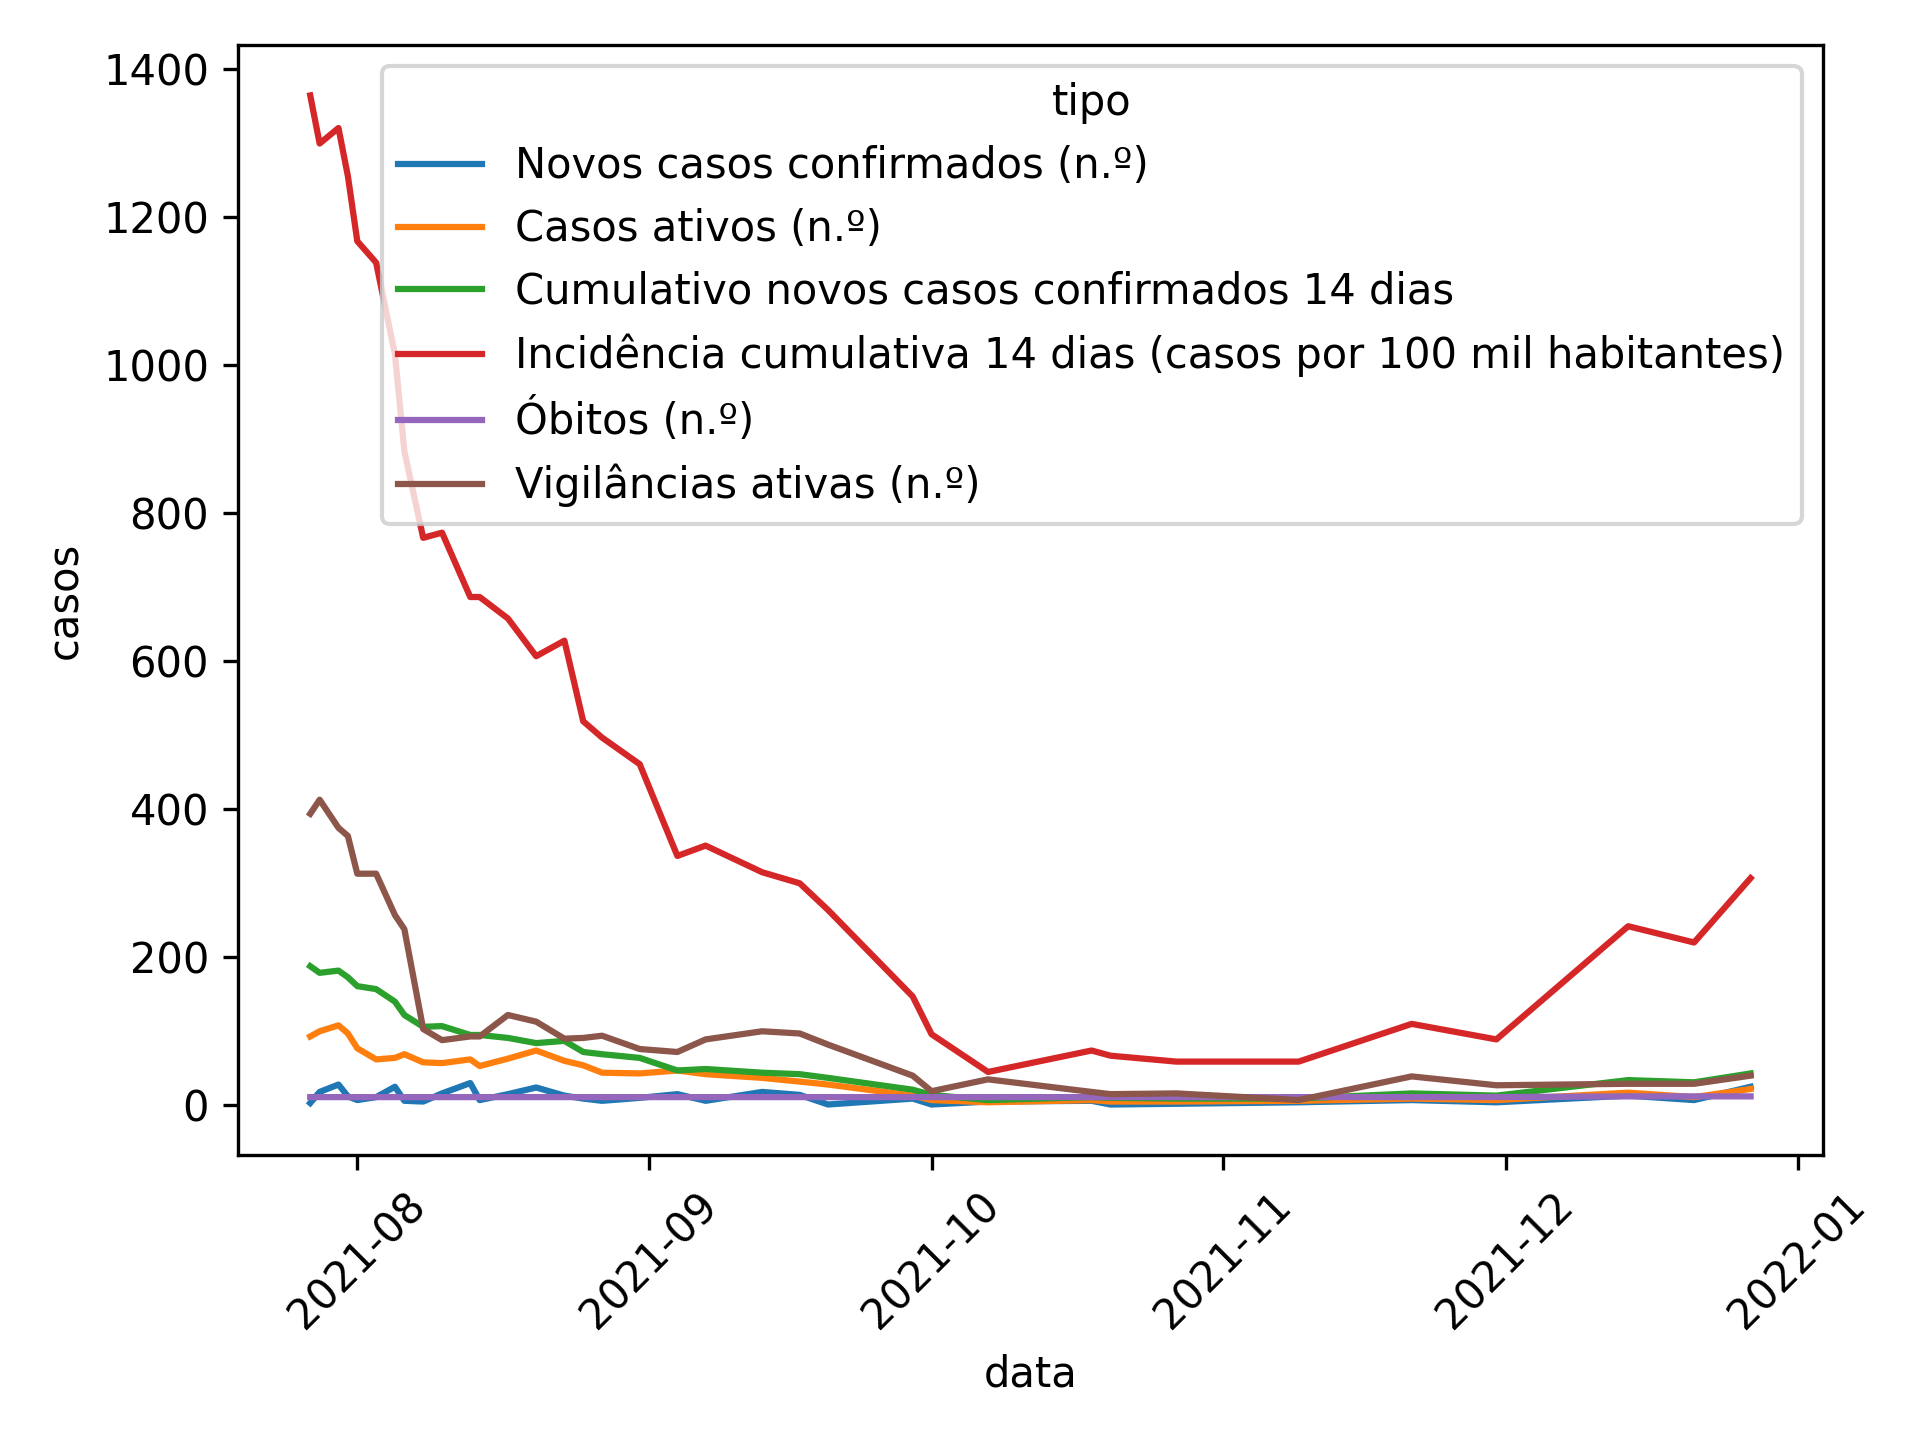
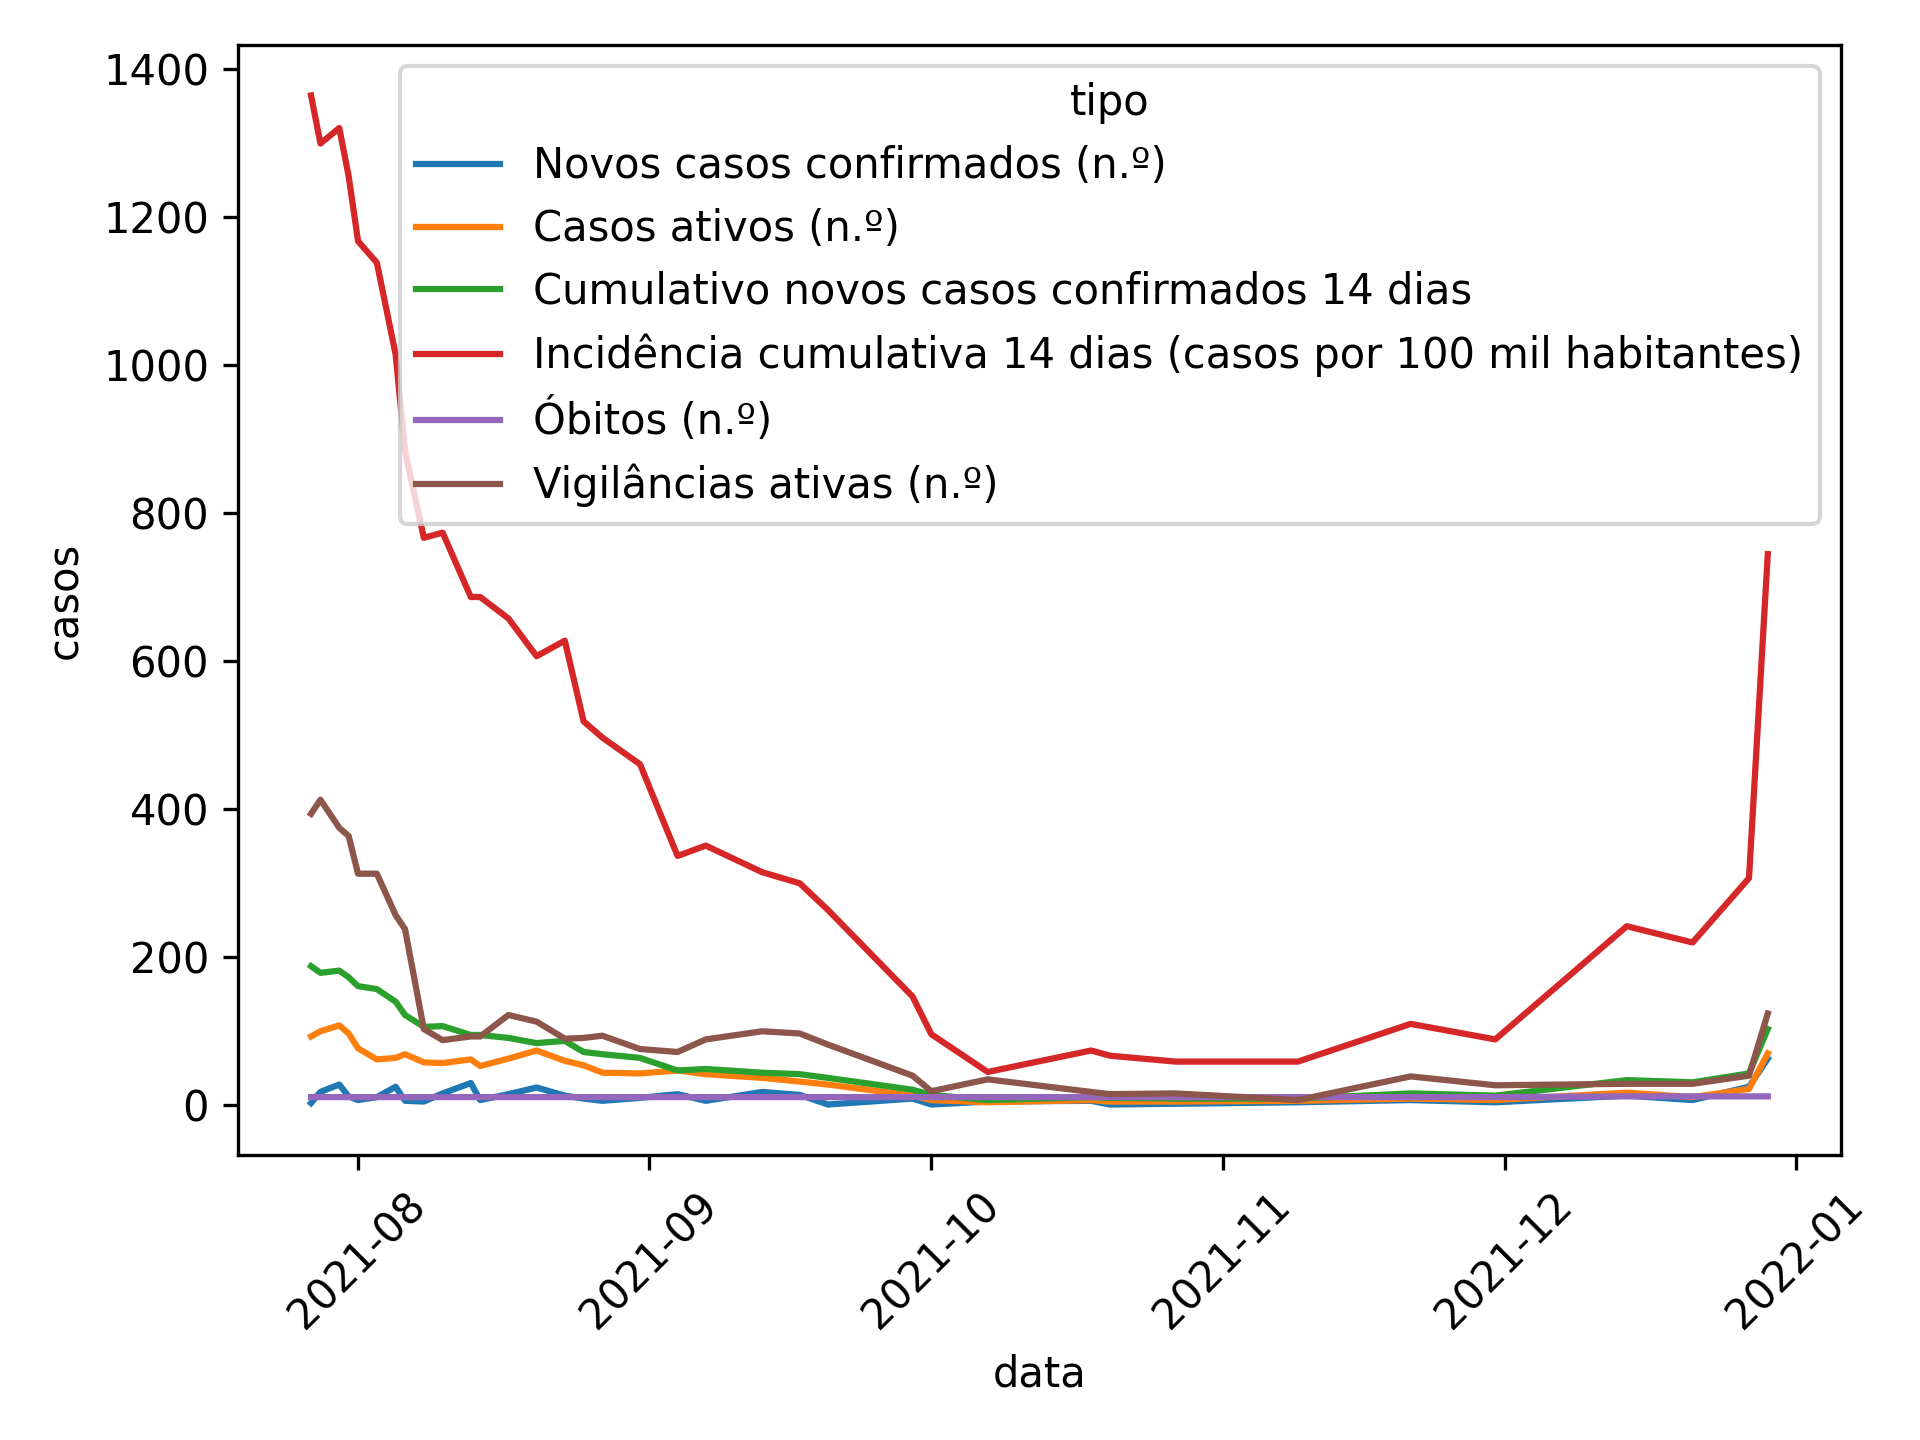
Apply automatic changes

diff --git a/README.md b/README.md
@@ -6,7 +6,6 @@
 
 | data       |   Novos casos confirmados (n.º) |   Casos ativos (n.º) |   Cumulativo novos casos confirmados 14 dias |   Incidência cumulativa 14 dias (casos por 100 mil habitantes) |   Óbitos (n.º) |   Vigilâncias ativas (n.º) |
 |:-----------|--------------------------------:|---------------------:|---------------------------------------------:|---------------------------------------------------------------:|---------------:|---------------------------:|
-| 13-09-2021 |                              17 |                   36 |                                           43 |                                                            314 |             10 |                         99 |
 | 17-09-2021 |                              13 |                   31 |                                           41 |                                                            299 |             10 |                         96 |
 | 20-09-2021 |                               0 |                   27 |                                           36 |                                                            263 |             10 |                         81 |
 | 29-09-2021 |                               8 |                   12 |                                           20 |                                                            146 |             10 |                         39 |
@@ -21,3 +20,4 @@
 | 14-12-2021 |                              12 |                   16 |                                           33 |                                                            241 |             11 |                         28 |
 | 21-12-2021 |                               6 |                   10 |                                           30 |                                                            219 |             11 |                         28 |
 | 27-12-2021 |                              24 |                   21 |                                           42 |                                                            306 |             11 |                         39 |
+| 29-12-2021 |                              62 |                   69 |                                          102 |                                                            744 |             11 |                        123 |
